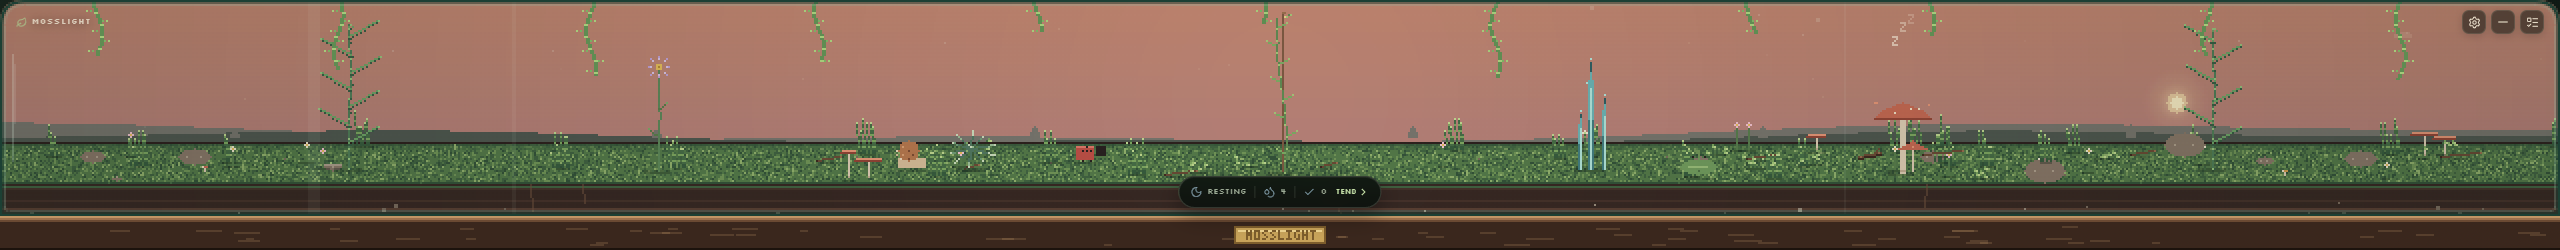
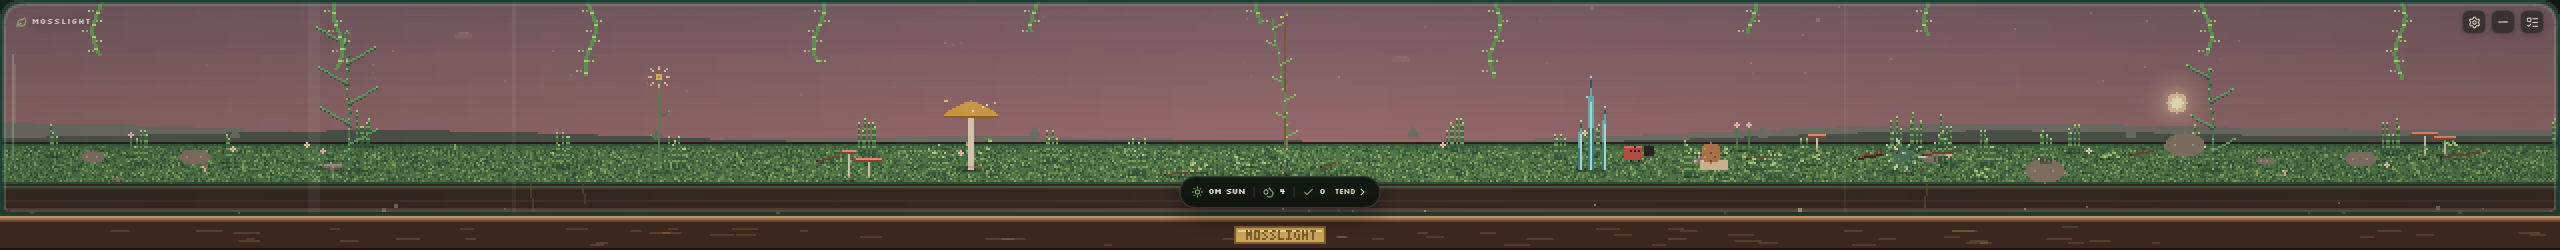
Stop paused growth and harden saved state and window writes
- refuse task growth and misting while the garden is resting
- coerce saved settings to real booleans and repair duplicate ids
- serialize state and shell-position writes, flush the window home on quit
- ignore layout-driven window moves when remembering the jar position
- recover from a failed state load or save instead of stalling
- give tall thumbnail plants the same height clamp as the jar
- regenerate docs screenshots and rebuild the installer

diff --git a/src/lib/state.ts b/src/lib/state.ts
@@ -147,19 +147,40 @@ function isCreature(value: unknown): value is CreatureId {
   return typeof value === 'string' && value in CREATURES;
 }
 
+function boolean(value: unknown, fallback: boolean): boolean {
+  return typeof value === 'boolean' ? value : fallback;
+}
+
+/** Saved settings can outlive a version of the app, so never trust their shape. */
+function sanitizeSettings(input: unknown): Settings {
+  const raw = input && typeof input === 'object' ? (input as Partial<Settings>) : {};
+  return {
+    display: raw.display === 'shelf' ? 'shelf' : 'jar',
+    alwaysOnTop: boolean(raw.alwaysOnTop, DEFAULT_SETTINGS.alwaysOnTop),
+    launchAtLogin: boolean(raw.launchAtLogin, DEFAULT_SETTINGS.launchAtLogin),
+    paused: boolean(raw.paused, DEFAULT_SETTINGS.paused),
+    reducedMotion: boolean(raw.reducedMotion, DEFAULT_SETTINGS.reducedMotion),
+    atmosphere: boolean(raw.atmosphere, DEFAULT_SETTINGS.atmosphere),
+  };
+}
+
 function sanitizePlants(input: unknown): Plant[] {
   if (!Array.isArray(input)) return [];
-  const used = new Set<number>();
+  const usedSlots = new Set<number>();
+  const usedIds = new Set<string>();
   const plants: Plant[] = [];
   for (const item of input) {
     if (!item || typeof item !== 'object') continue;
     const raw = item as Partial<Plant>;
     if (!isSpecies(raw.species)) continue;
     const slot = Math.round(finite(raw.slot, -1));
-    if (slot < 0 || slot >= PLANT_SLOTS.length || used.has(slot)) continue;
-    used.add(slot);
+    if (slot < 0 || slot >= PLANT_SLOTS.length || usedSlots.has(slot)) continue;
+    usedSlots.add(slot);
+    let id = typeof raw.id === 'string' ? raw.id : makeId('pl');
+    if (!id || usedIds.has(id)) id = makeId('pl');
+    usedIds.add(id);
     plants.push({
-      id: typeof raw.id === 'string' ? raw.id : makeId('pl'),
+      id,
       species: raw.species,
       slot,
       growth: clamp(finite(raw.growth, 0.1), 0, 1),
@@ -192,13 +213,17 @@ function sanitizeCreatures(input: unknown): Creature[] {
 function sanitizeTasks(input: unknown): Task[] {
   if (!Array.isArray(input)) return [];
   const tasks: Task[] = [];
+  const usedIds = new Set<string>();
   for (const item of input) {
     if (!item || typeof item !== 'object') continue;
     const raw = item as Partial<Task>;
     const text = typeof raw.text === 'string' ? raw.text.trim().slice(0, 140) : '';
     if (!text) continue;
+    let id = typeof raw.id === 'string' ? raw.id : makeId('tk');
+    if (!id || usedIds.has(id)) id = makeId('tk');
+    usedIds.add(id);
     tasks.push({
-      id: typeof raw.id === 'string' ? raw.id : makeId('tk'),
+      id,
       text,
       done: Boolean(raw.done),
       createdAt: finite(raw.createdAt, Date.now()),
@@ -213,11 +238,7 @@ export function normalizeState(input: unknown, now = Date.now()): TerrariumState
   const raw = input as Partial<TerrariumState>;
   if (raw.version !== 1) return makeInitialState(now);
 
-  const settings: Settings = {
-    ...DEFAULT_SETTINGS,
-    ...(raw.settings && typeof raw.settings === 'object' ? raw.settings : {}),
-  };
-  settings.display = settings.display === 'shelf' ? 'shelf' : 'jar';
+  const settings = sanitizeSettings(raw.settings);
 
   const state: TerrariumState = {
     version: 1,
@@ -241,7 +262,7 @@ export function normalizeState(input: unknown, now = Date.now()): TerrariumState
     lastBreakAt: Math.max(0, finite(raw.lastBreakAt, 0)),
     onboardingDone: Boolean(raw.onboardingDone),
     seenUnlocks: Array.isArray(raw.seenUnlocks)
-      ? raw.seenUnlocks.filter(isSpecies)
+      ? Array.from(new Set(raw.seenUnlocks.filter(isSpecies)))
       : ['fern', 'mushroom'],
     settings,
   };
@@ -340,11 +361,13 @@ export function completeTask(
     streak,
     bestStreak: Math.max(state.bestStreak, streak),
     lastTaskDay: today,
-    plants: state.plants.map((plant) =>
-      plant.growth < 1
-        ? { ...plant, growth: clamp(plant.growth + TASK_GROWTH, 0, 1) }
-        : plant,
-    ),
+    plants: state.settings.paused
+      ? state.plants
+      : state.plants.map((plant) =>
+          plant.growth < 1
+            ? { ...plant, growth: clamp(plant.growth + TASK_GROWTH, 0, 1) }
+            : plant,
+        ),
     updatedAt: now,
   };
   return { state: next, completed: true, newStreak };
@@ -388,6 +411,7 @@ export function mistPlants(
   state: TerrariumState,
   now = Date.now(),
 ): { state: TerrariumState; error?: string; matured: SpeciesId[] } {
+  if (state.settings.paused) return { state, error: 'the jar is resting', matured: [] };
   if (state.dew < MIST_COST) return { state, error: 'not enough dew', matured: [] };
   if (state.plants.length === 0) return { state, error: 'nothing to mist yet', matured: [] };
 

diff --git a/src/lib/useTerrarium.ts b/src/lib/useTerrarium.ts
@@ -102,23 +102,35 @@ export function useTerrarium(): {
     [],
   );
 
-  const flushSave = useCallback((next: TerrariumState) => {
-    if (!loadedRef.current) return;
-    if (saveTimer.current !== null) {
-      window.clearTimeout(saveTimer.current);
-      saveTimer.current = null;
-    }
-    void bridge.saveState(JSON.stringify(next));
+  const persist = useCallback((next: TerrariumState) => {
+    void bridge.saveState(JSON.stringify(next)).catch(() => {
+      // A failed write must not break the running garden. The next tick retries.
+    });
   }, []);
 
-  const scheduleSave = useCallback((next: TerrariumState) => {
-    if (!loadedRef.current) return;
-    if (saveTimer.current !== null) window.clearTimeout(saveTimer.current);
-    saveTimer.current = window.setTimeout(() => {
-      saveTimer.current = null;
-      void bridge.saveState(JSON.stringify(next));
-    }, 4000);
-  }, []);
+  const flushSave = useCallback(
+    (next: TerrariumState) => {
+      if (!loadedRef.current) return;
+      if (saveTimer.current !== null) {
+        window.clearTimeout(saveTimer.current);
+        saveTimer.current = null;
+      }
+      persist(next);
+    },
+    [persist],
+  );
+
+  const scheduleSave = useCallback(
+    (next: TerrariumState) => {
+      if (!loadedRef.current) return;
+      if (saveTimer.current !== null) window.clearTimeout(saveTimer.current);
+      saveTimer.current = window.setTimeout(() => {
+        saveTimer.current = null;
+        persist(next);
+      }, 4000);
+    },
+    [persist],
+  );
 
   const commitNext = useCallback(
     (
@@ -159,7 +171,12 @@ export function useTerrarium(): {
 
     async function load() {
       let next: TerrariumState;
-      const raw = await bridge.loadState();
+      let raw: string | null = null;
+      try {
+        raw = await bridge.loadState();
+      } catch {
+        pushToast('the saved jar could not be opened; a fresh one is growing', 'warn', 6000);
+      }
       if (raw) {
         try {
           next = normalizeState(JSON.parse(raw), Date.now());
@@ -256,7 +273,7 @@ export function useTerrarium(): {
         window.clearTimeout(saveTimer.current);
         saveTimer.current = null;
       }
-      void bridge.saveState(JSON.stringify(stateRef.current));
+      persist(stateRef.current);
     };
     const onVisibility = () => {
       if (document.visibilityState === 'hidden') save();
@@ -267,7 +284,7 @@ export function useTerrarium(): {
       window.removeEventListener('pagehide', save);
       document.removeEventListener('visibilitychange', onVisibility);
     };
-  }, []);
+  }, [persist]);
 
   const updateSettings = useCallback(
     (patch: Partial<Settings>) => {
@@ -398,9 +415,9 @@ export function useTerrarium(): {
       saveTimer.current = null;
     }
     if (stateRef.current && loadedRef.current) {
-      void bridge.saveState(JSON.stringify(stateRef.current));
+      persist(stateRef.current);
     }
-  }, []);
+  }, [persist]);
 
   return {
     state,

diff --git a/scripts/smoke.ts b/scripts/smoke.ts
@@ -82,6 +82,85 @@ check('pausing stops growth but still records the visit', () => {
   assert.equal(result.lastSeenAt, now + HOUR);
 });
 
+check('pausing also stops task growth and misting', () => {
+  const now = NOW;
+  const base = makeInitialState(now);
+  const paused = {
+    ...base,
+    dew: 10,
+    settings: { ...base.settings, paused: true },
+  };
+  const before = paused.plants.map((plant) => plant.growth);
+
+  const task = addTask(paused, 'resting task', now).state;
+  const done = completeTask(task, task.tasks[0].id, now + MINUTE);
+  assert.deepEqual(
+    done.state.plants.map((plant) => plant.growth),
+    before,
+    'a finished task must not grow a resting garden',
+  );
+  assert.equal(done.state.dew, paused.dew + TASK_DEW, 'rewards still arrive');
+
+  const misted = mistPlants(paused, now);
+  assert.ok(misted.error, 'misting should be refused while resting');
+  assert.equal(misted.state.dew, paused.dew, 'no dew is spent');
+  assert.deepEqual(
+    misted.state.plants.map((plant) => plant.growth),
+    before,
+    'no growth is applied',
+  );
+});
+
+check('bad settings snap back to safe defaults', () => {
+  const now = NOW;
+  const state = makeInitialState(now);
+  const fixed = normalizeState(
+    {
+      ...state,
+      settings: {
+        display: 'sideways',
+        alwaysOnTop: 'yes',
+        launchAtLogin: 1,
+        paused: 'no',
+        reducedMotion: null,
+        atmosphere: 'on',
+      },
+      seenUnlocks: ['fern', 'fern', 'bogus'],
+    },
+    now,
+  );
+  assert.deepEqual(fixed.settings, {
+    display: 'jar',
+    alwaysOnTop: true,
+    launchAtLogin: false,
+    paused: false,
+    reducedMotion: false,
+    atmosphere: true,
+  });
+  assert.deepEqual(fixed.seenUnlocks, ['fern']);
+});
+
+check('duplicate ids are repaired when loading', () => {
+  const now = NOW;
+  const state = makeInitialState(now);
+  const repaired = normalizeState(
+    {
+      ...state,
+      plants: state.plants.map((plant) => ({ ...plant, id: 'same' })),
+      tasks: [
+        { id: 'dup', text: 'one', done: false, createdAt: now },
+        { id: 'dup', text: 'two', done: false, createdAt: now },
+      ],
+    },
+    now,
+  );
+  assert.equal(
+    new Set(repaired.plants.map((plant) => plant.id)).size,
+    repaired.plants.length,
+  );
+  assert.equal(new Set(repaired.tasks.map((task) => task.id)).size, repaired.tasks.length);
+});
+
 check('finishing a task drops dew, a spore, and starts a streak', () => {
   const now = NOW;
   const state = makeInitialState(now);

diff --git a/src/components/PlantThumb.tsx b/src/components/PlantThumb.tsx
@@ -43,6 +43,7 @@ export function PlantThumb({ species, size = 58 }: Props) {
       motion: false,
       night: false,
       detail: 1,
+      maxHeight: size - 5,
     });
   }, [species, size]);
 
